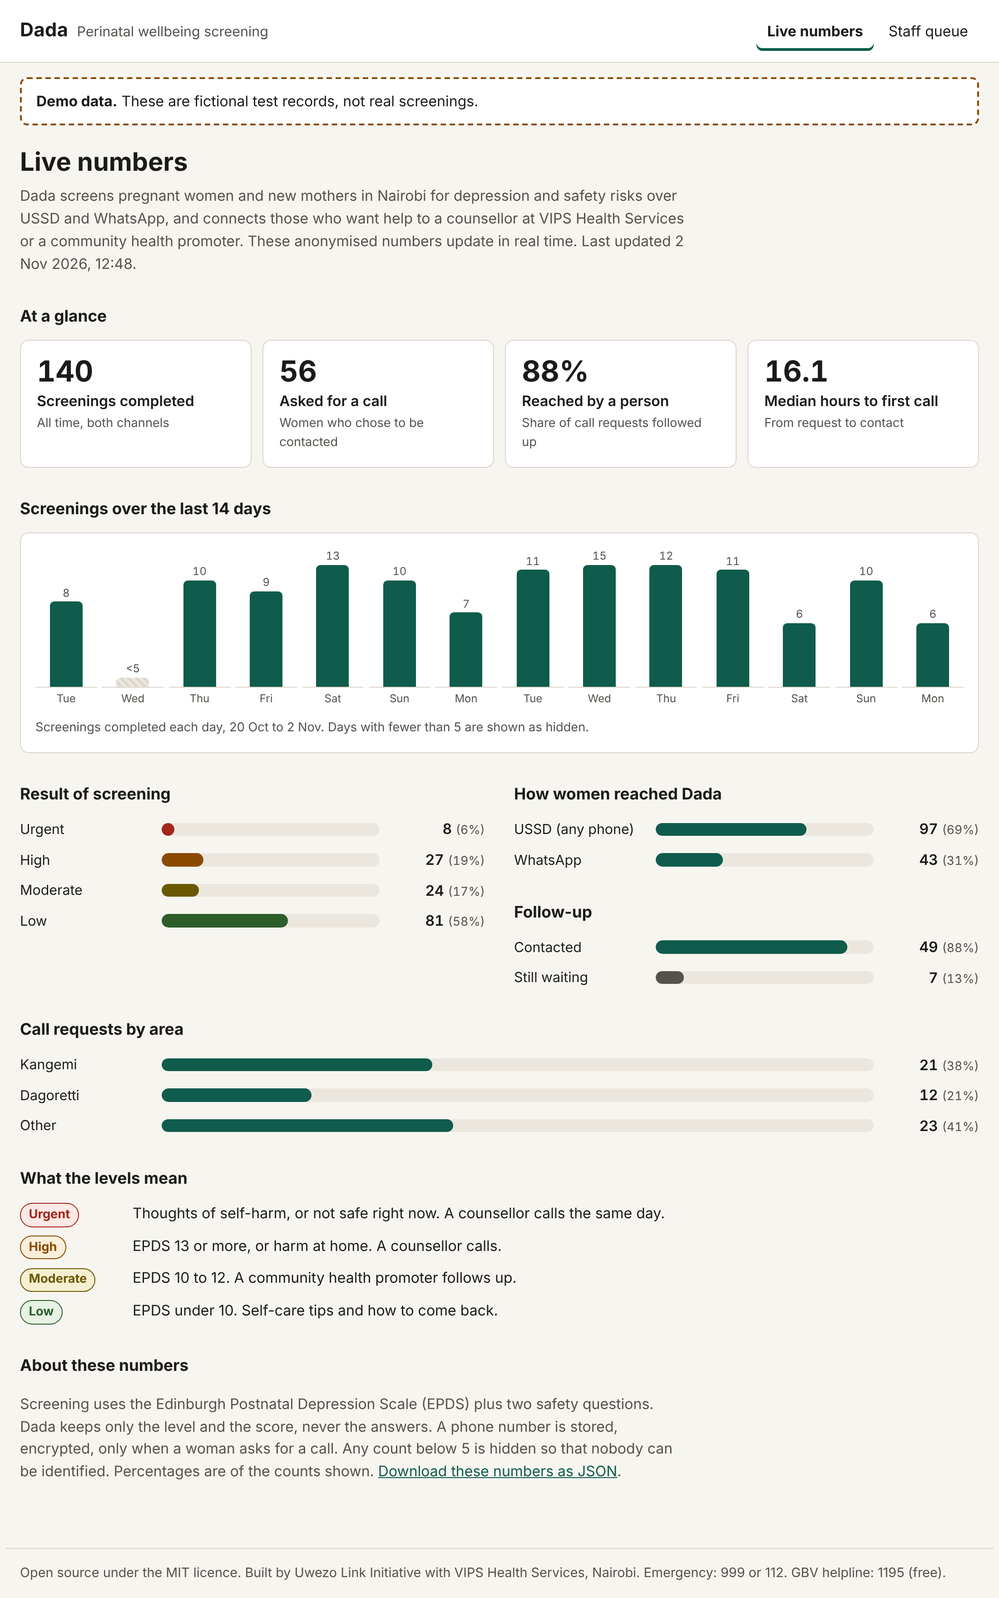
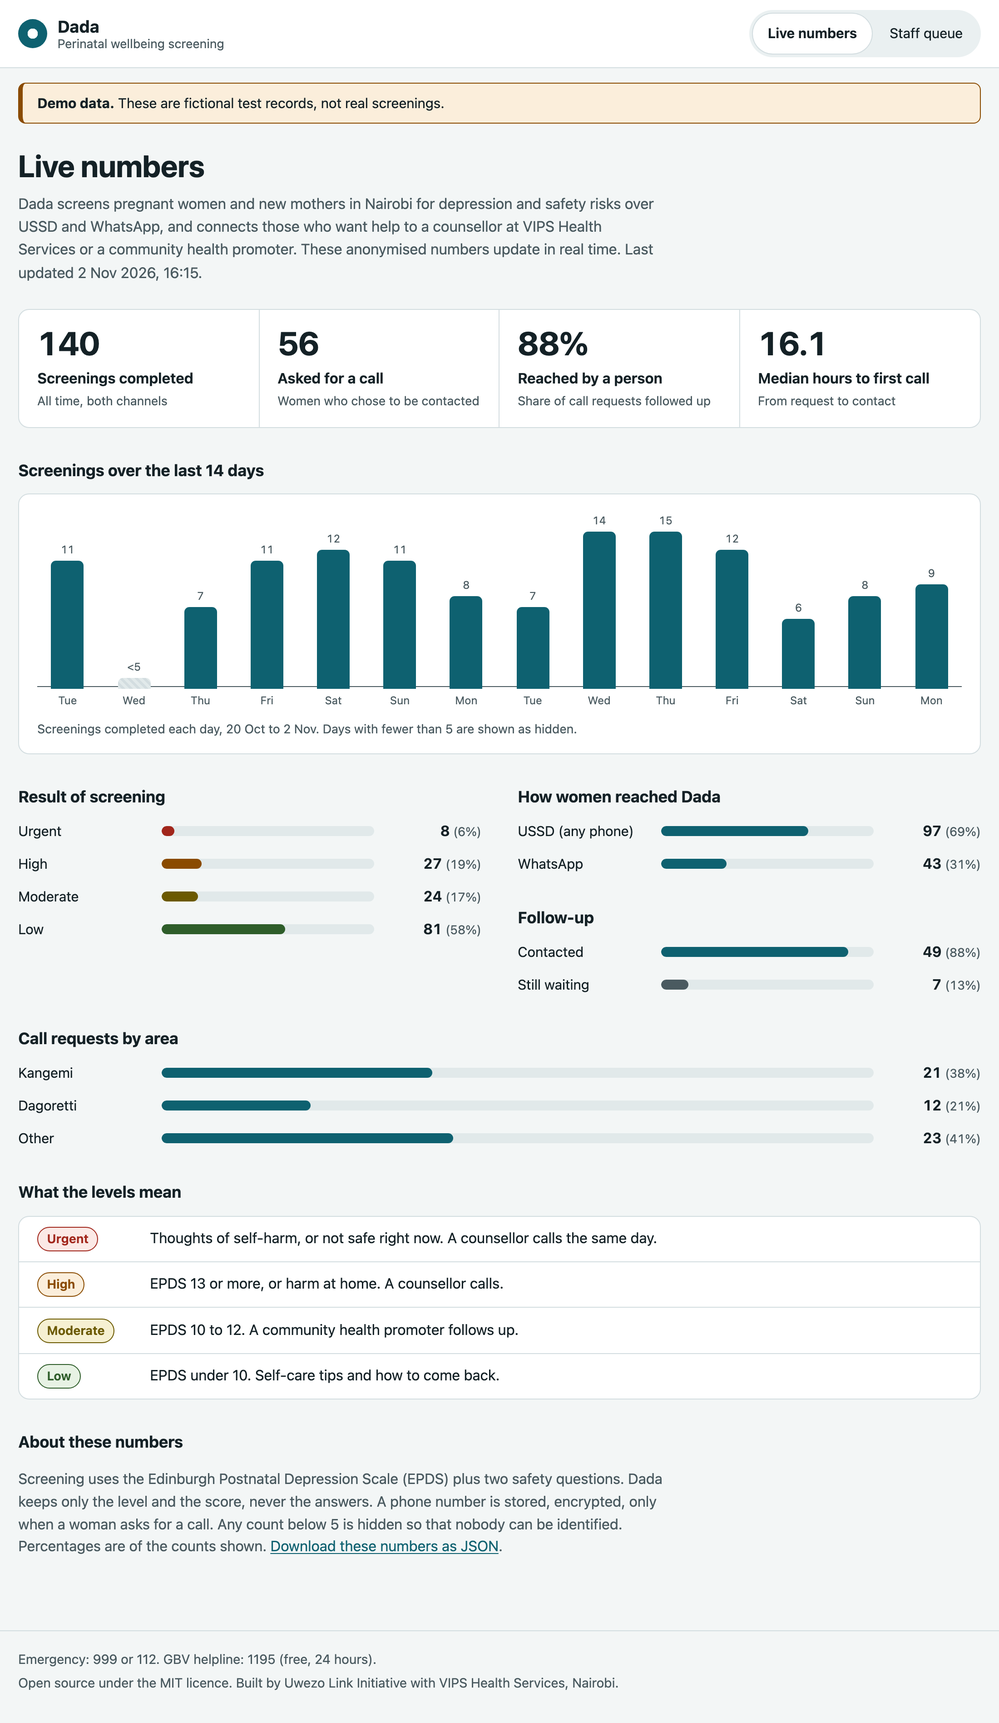
feat: polish staff and live numbers pages
- Calm blue-teal theme in light and dark mode; all text pairs at 5.9:1 or better.
- Headline numbers in one divided panel, urgent first, each with a line saying what it means.
- Clearer header, navigation, demo banner, table header, risk key and footer.
- Fix on phones: the "Waiting" line in a queue card now sits under the date, not in the
  label column.
- Updated docs screenshots with fictional demo data.

Server-rendered HTML and CSS only, no JavaScript or external assets.

diff --git a/src/adapters/http/html.ts b/src/adapters/http/html.ts
@@ -55,140 +55,203 @@ export function page(title: string, body: SafeHtml, options: PageOptions = {}): 
 <style>
 :root {
   color-scheme: light dark;
-  --bg: #f7f5f0; --surface: #ffffff; --text: #1c1b19; --muted: #55524c;
-  --line: #dcd7cc; --track: #ebe7de; --accent: #0f5c4c; --accent-text: #ffffff;
+  --bg: #f3f6f6; --surface: #ffffff; --surface-2: #eaf0f1; --text: #142126; --muted: #4a5a60;
+  --line: #d3dde0; --track: #e1e9ea; --accent: #0e6170; --accent-strong: #0a4b57;
+  --accent-text: #ffffff; --accent-soft: #e1eff1;
   --urgent: #a1261b; --high: #8a4b00; --moderate: #6b5900; --low: #2e5d2a;
   --urgent-bg: #fbe9e6; --high-bg: #fbeedb; --moderate-bg: #f6f0d2; --low-bg: #e7f2e4;
-  --focus: #1a56db;
+  --focus: #1a56db; --radius: .75rem;
 }
 @media (prefers-color-scheme: dark) {
   :root {
-    --bg: #141311; --surface: #1e1d1a; --text: #f2efe8; --muted: #b9b4a9;
-    --line: #3a3833; --track: #2c2a26; --accent: #6fd3bd; --accent-text: #0b1f1a;
+    --bg: #0e1618; --surface: #152124; --surface-2: #1b2a2e; --text: #e8f0f1; --muted: #a7b8bc;
+    --line: #2b3d41; --track: #243438; --accent: #7cd0dc; --accent-strong: #a6e2ea;
+    --accent-text: #06262b; --accent-soft: #17343a;
     --urgent: #ff9c90; --high: #ffc074; --moderate: #f1d36b; --low: #9fd996;
     --urgent-bg: #3a1d19; --high-bg: #3a2a14; --moderate-bg: #343013; --low-bg: #1d3019;
     --focus: #8ab4ff;
   }
 }
 * { box-sizing: border-box; }
+html { -webkit-text-size-adjust: 100%; }
 body {
   margin: 0; background: var(--bg); color: var(--text);
   font: 1rem/1.55 system-ui, -apple-system, "Segoe UI", Roboto, "Noto Sans", sans-serif;
 }
-a { color: var(--accent); }
+a { color: var(--accent); text-underline-offset: .15em; }
+a:hover { color: var(--accent-strong); }
 :focus-visible { outline: 3px solid var(--focus); outline-offset: 2px; }
-.skip { position: absolute; left: -999px; top: 0; padding: .5rem 1rem; background: var(--surface); }
+.skip { position: absolute; left: -999px; top: 0; padding: .5rem 1rem; background: var(--surface); z-index: 1; }
 .skip:focus { left: 1rem; }
 .visually-hidden {
   position: absolute; width: 1px; height: 1px; overflow: hidden;
   clip-path: inset(50%); white-space: nowrap;
 }
+
+/* Header */
 .site { background: var(--surface); border-bottom: 1px solid var(--line); }
-.site-inner, main, footer { max-width: 68rem; margin: 0 auto; padding: 0 1rem; }
-.site-inner { display: flex; flex-wrap: wrap; align-items: center; gap: .25rem 1.5rem; padding-block: .75rem; }
-.brand { display: flex; align-items: baseline; gap: .6rem; margin-right: auto; }
-.brand strong { font-size: 1.3rem; letter-spacing: .01em; }
-.brand span { color: var(--muted); font-size: .95rem; }
-nav ul { display: flex; gap: .25rem; list-style: none; margin: 0; padding: 0; }
+.site-inner, main, footer { max-width: 70rem; margin: 0 auto; padding: 0 1.25rem; }
+.site-inner { display: flex; flex-wrap: wrap; align-items: center; gap: .5rem 1.5rem; padding-block: .7rem; }
+.brand { display: flex; align-items: center; gap: .7rem; margin-right: auto; }
+.mark {
+  width: 2rem; height: 2rem; border-radius: 50%; flex: none;
+  background: radial-gradient(circle at 50% 50%, var(--surface) 0 .35rem, transparent .36rem), var(--accent);
+}
+.brand-text { display: flex; flex-direction: column; line-height: 1.2; }
+.brand strong { font-size: 1.15rem; letter-spacing: .01em; }
+.brand-text span { color: var(--muted); font-size: .85rem; }
+nav ul { display: flex; gap: .25rem; list-style: none; margin: 0; padding: .25rem; background: var(--surface-2); border-radius: 2rem; }
 nav a {
-  display: inline-block; padding: .5rem .75rem; border-radius: .4rem;
-  color: var(--text); text-decoration: none; min-height: 2.75rem; line-height: 1.75rem;
+  display: inline-block; padding: .45rem 1rem; border-radius: 2rem;
+  color: var(--text); text-decoration: none; min-height: 2.75rem; line-height: 1.85rem; font-size: .95rem;
 }
-nav a:hover { background: var(--track); }
-nav a[aria-current="page"] { font-weight: 650; box-shadow: inset 0 -3px 0 var(--accent); }
+nav a:hover { color: var(--text); background: var(--track); }
+nav a[aria-current="page"] { font-weight: 650; background: var(--surface); box-shadow: 0 0 0 1px var(--line); }
+
+/* Page heading */
 main { padding-bottom: 1rem; }
-h1 { font-size: 1.75rem; line-height: 1.2; margin: 1.5rem 0 .5rem; }
-h2 { font-size: 1.1rem; margin: 2rem 0 .75rem; }
-p.lead { color: var(--muted); margin-top: 0; max-width: 46rem; }
-.grid { display: grid; gap: .75rem; grid-template-columns: repeat(auto-fit, minmax(11rem, 1fr)); }
-.card {
-  background: var(--surface); border: 1px solid var(--line); border-radius: .6rem;
-  padding: 1rem 1.1rem; display: flex; flex-direction: column; gap: .1rem;
+.page-head { padding: 1.75rem 0 .25rem; }
+h1 { font-size: clamp(1.6rem, 1.2rem + 1.6vw, 2.1rem); line-height: 1.15; letter-spacing: -.01em; margin: 0 0 .5rem; }
+h2 { font-size: 1.1rem; line-height: 1.3; margin: 2.25rem 0 .85rem; }
+h2 .h-note { display: block; color: var(--muted); font-size: .9rem; font-weight: 400; margin-top: .15rem; }
+p.lead { color: var(--muted); margin: 0; max-width: 44rem; font-size: 1.02rem; }
+
+.demo {
+  margin: 1rem 0 0; padding: .6rem 1rem; border-radius: .5rem;
+  background: var(--high-bg); color: var(--text); border: 1px solid var(--high);
+  border-left-width: 5px; font-size: .95rem;
 }
-.card .n { font-size: 2rem; font-weight: 650; line-height: 1.15; font-variant-numeric: tabular-nums; }
-.card .n-small { font-size: 1.4rem; padding-top: .35rem; }
-.card .n-hidden { font-size: 1.15rem; font-weight: 600; color: var(--muted); padding: .55rem 0 .3rem; }
-.card .l { font-weight: 600; }
-.card .sub { color: var(--muted); font-size: .85rem; }
-.card-alert { border-color: var(--urgent); box-shadow: inset 4px 0 0 var(--urgent); }
-.two-col { display: grid; gap: 0 2rem; grid-template-columns: repeat(auto-fit, minmax(19rem, 1fr)); }
-.bars { list-style: none; margin: 0; padding: 0; display: grid; gap: .55rem; }
-.bars li { display: grid; grid-template-columns: 9rem 1fr 6.5rem; align-items: center; gap: .75rem; }
+
+/* Headline numbers: one panel, divided, most important first */
+.stat-strip {
+  display: grid; grid-template-columns: repeat(auto-fit, minmax(10.5rem, 1fr));
+  background: var(--surface); border: 1px solid var(--line); border-radius: var(--radius);
+  margin-top: 1.5rem; overflow: hidden;
+}
+.stat {
+  padding: 1.1rem 1.25rem 1.2rem; display: flex; flex-direction: column; gap: .15rem;
+  border-left: 1px solid var(--line); margin-left: -1px; border-top: 1px solid var(--line); margin-top: -1px;
+}
+.stat .n { font-size: 2.25rem; font-weight: 700; line-height: 1.1; letter-spacing: -.02em; font-variant-numeric: tabular-nums; }
+.stat .n-small { font-size: 1.6rem; padding-top: .45rem; }
+.stat .n-hidden { font-size: 1.15rem; font-weight: 600; color: var(--muted); padding: .7rem 0 .45rem; letter-spacing: 0; }
+.stat .l { font-weight: 650; margin-top: .25rem; }
+.stat .sub { color: var(--muted); font-size: .85rem; line-height: 1.4; }
+.stat-alert { background: var(--urgent-bg); box-shadow: inset 0 4px 0 var(--urgent); }
+.stat-alert .n { color: var(--urgent); }
+.stat-lead { background: var(--accent-soft); }
+
+/* Bars */
+.two-col { display: grid; gap: 0 2.5rem; grid-template-columns: repeat(auto-fit, minmax(19rem, 1fr)); }
+.panel { background: var(--surface); border: 1px solid var(--line); border-radius: var(--radius); padding: 1rem 1.25rem; }
+.two-col > section > h2:first-child { margin-top: 2.25rem; }
+.bars { list-style: none; margin: 0; padding: 0; display: grid; gap: .7rem; }
+.bars li { display: grid; grid-template-columns: 9rem 1fr 6.5rem; align-items: center; gap: .85rem; }
 .bar-label { font-size: .95rem; }
-.bar-value { font-variant-numeric: tabular-nums; text-align: right; font-weight: 600; }
-.bar-value small { color: var(--muted); font-weight: 400; }
-.track { height: .9rem; background: var(--track); border-radius: 1rem; overflow: hidden; }
-.fill { display: block; height: 100%; border-radius: 1rem; }
+.bar-value { font-variant-numeric: tabular-nums; text-align: right; font-weight: 650; }
+.bar-value small { color: var(--muted); font-weight: 400; font-size: .85rem; }
+.track { height: .7rem; background: var(--track); border-radius: 1rem; overflow: hidden; }
+.fill { display: block; height: 100%; border-radius: 1rem; min-width: .35rem; }
+.fill[style="width:0%"] { min-width: 0; }
 .fill-urgent { background: var(--urgent); } .fill-high { background: var(--high); }
 .fill-moderate { background: var(--moderate); } .fill-low { background: var(--low); }
 .fill-accent { background: var(--accent); } .fill-muted { background: var(--muted); }
-.trend { margin: 0; background: var(--surface); border: 1px solid var(--line); border-radius: .6rem; padding: 1rem; }
-.columns { display: flex; align-items: stretch; gap: .35rem; height: 11rem; }
+
+/* Daily chart */
+.trend { margin: 0; background: var(--surface); border: 1px solid var(--line); border-radius: var(--radius); padding: 1.25rem 1.25rem 1rem; }
+.columns {
+  display: flex; align-items: stretch; gap: .4rem; height: 12rem;
+  border-bottom: 1px solid var(--muted);
+}
 .col { flex: 1; display: flex; flex-direction: column; justify-content: flex-end; align-items: center; min-width: 0; }
-.col-bar { width: 100%; max-width: 2.25rem; background: var(--accent); border-radius: .3rem .3rem 0 0; }
+.col-bar { width: 100%; max-width: 2.25rem; background: var(--accent); border-radius: .35rem .35rem 0 0; }
 .col-hidden { background: repeating-linear-gradient(45deg, var(--track), var(--track) 3px, var(--line) 3px, var(--line) 6px); }
-.col-value { font-size: .75rem; color: var(--muted); font-variant-numeric: tabular-nums; }
-.col-day { font-size: .75rem; color: var(--muted); border-top: 1px solid var(--line); width: 100%; text-align: center; padding-top: .2rem; }
-.trend figcaption { color: var(--muted); font-size: .85rem; margin-top: .75rem; }
+.col-value { font-size: .75rem; color: var(--muted); font-variant-numeric: tabular-nums; padding-bottom: .15rem; }
+.col-day { font-size: .75rem; color: var(--muted); width: 100%; text-align: center; padding-top: .3rem; margin-bottom: -1.6rem; }
+.trend figcaption { color: var(--muted); font-size: .85rem; margin-top: 2.2rem; }
+
+/* Risk level badges: text plus colour, never colour alone */
 .badge {
-  display: inline-block; padding: .1rem .55rem; border-radius: 1rem; font-weight: 650;
+  display: inline-block; padding: .12rem .6rem; border-radius: 1rem; font-weight: 650;
   font-size: .85rem; border: 1px solid currentColor; white-space: nowrap;
 }
 .badge-urgent { color: var(--urgent); background: var(--urgent-bg); }
 .badge-high { color: var(--high); background: var(--high-bg); }
 .badge-moderate { color: var(--moderate); background: var(--moderate-bg); }
 .badge-low { color: var(--low); background: var(--low-bg); }
-.levels { display: grid; gap: .5rem; margin: 0; }
-.levels div { display: grid; grid-template-columns: 7rem 1fr; gap: .75rem; align-items: baseline; }
+.levels { display: grid; gap: 0; margin: 0; background: var(--surface); border: 1px solid var(--line); border-radius: var(--radius); }
+.levels div { display: grid; grid-template-columns: 7rem 1fr; gap: .75rem; align-items: baseline; padding: .7rem 1.25rem; }
+.levels div + div { border-top: 1px solid var(--line); }
 .levels dd { margin: 0; }
-.table-wrap { overflow-x: auto; border: 1px solid var(--line); border-radius: .6rem; background: var(--surface); }
+
+/* Referral queue */
+.table-wrap { overflow-x: auto; border: 1px solid var(--line); border-radius: var(--radius); background: var(--surface); }
 table { border-collapse: collapse; width: 100%; }
 .table-wrap table { min-width: 48rem; }
-caption { text-align: left; padding: .75rem 1rem; color: var(--muted); }
-th, td { text-align: left; padding: .65rem 1rem; border-top: 1px solid var(--line); vertical-align: top; }
-th { font-weight: 600; font-size: .9rem; }
+caption { text-align: left; padding: .8rem 1.25rem; color: var(--muted); font-size: .92rem; }
+th, td { text-align: left; padding: .75rem 1rem; border-top: 1px solid var(--line); vertical-align: top; }
+th:first-child, td:first-child { padding-left: 1.25rem; }
+th { font-weight: 650; font-size: .85rem; color: var(--muted); background: var(--surface-2); }
+.queue tbody tr:hover { background: var(--surface-2); }
 td.num { font-variant-numeric: tabular-nums; }
+.queue td.score { font-weight: 650; }
 tr.late td:first-child { box-shadow: inset 4px 0 0 var(--urgent); }
 .wait { display: block; color: var(--muted); font-size: .85rem; }
 tr.late .wait strong { color: var(--urgent); }
-table.compact th, table.compact td { padding: .5rem .5rem .5rem 0; }
-details { background: var(--surface); border: 1px solid var(--line); border-radius: .6rem; padding: .75rem 1rem; margin-bottom: 1rem; }
+table.compact th, table.compact td { padding: .55rem .5rem .55rem 0; background: none; }
+details { background: var(--surface); border: 1px solid var(--line); border-radius: var(--radius); padding: .9rem 1.25rem; margin-bottom: 1rem; }
 summary { font-weight: 650; cursor: pointer; min-height: 1.75rem; }
 details ol { padding-left: 1.25rem; margin-bottom: 0; }
+details li + li { margin-top: .35rem; }
 .hint { color: var(--muted); font-size: .9rem; margin: .5rem 0 0; }
 .note { color: var(--muted); max-width: 46rem; }
+.help {
+  margin: 1.5rem 0 0; padding: .9rem 1.25rem; border-radius: var(--radius);
+  background: var(--accent-soft); color: var(--text); max-width: none;
+}
 button {
-  font: inherit; cursor: pointer; border: 0; border-radius: .4rem;
-  padding: .55rem .9rem; min-height: 2.75rem; background: var(--accent); color: var(--accent-text);
+  font: inherit; font-weight: 600; cursor: pointer; border: 0; border-radius: .5rem;
+  padding: .55rem 1rem; min-height: 2.75rem; background: var(--accent); color: var(--accent-text);
   white-space: nowrap;
 }
-.demo {
-  margin: 1rem 0 0; padding: .75rem 1rem; border-radius: .5rem;
-  background: var(--surface); border: 2px dashed var(--high); color: var(--text);
-}
-.empty { padding: 1.5rem 1rem; color: var(--muted); background: var(--surface); border: 1px solid var(--line); border-radius: .6rem; }
-footer { color: var(--muted); font-size: .9rem; border-top: 1px solid var(--line); margin-top: 2.5rem; padding-block: 1rem; }
+button:hover { background: var(--accent-strong); }
+.empty { padding: 1.5rem 1.25rem; color: var(--muted); background: var(--surface); border: 1px solid var(--line); border-radius: var(--radius); }
+footer { color: var(--muted); font-size: .9rem; border-top: 1px solid var(--line); margin-top: 3rem; padding-block: 1.25rem 2rem; }
+footer p { margin: 0; }
+footer p + p { margin-top: .25rem; }
+
 /* On phones each referral becomes a card, so nobody has to scroll sideways to reach the button. */
 @media (max-width: 44rem) {
   .table-wrap { overflow: visible; }
   .table-wrap table.queue { min-width: 0; }
   .queue thead { position: absolute; width: 1px; height: 1px; overflow: hidden; clip-path: inset(50%); }
   .queue tbody, .queue tr, .queue td { display: block; }
-  .queue tr { border-top: 1px solid var(--line); padding: .75rem 1rem; }
-  .queue td { border: 0; padding: .2rem 0; display: grid; grid-template-columns: 6.5rem 1fr; gap: .5rem; }
+  .queue tr { border-top: 1px solid var(--line); padding: .9rem 1.25rem; }
+  .queue tbody tr:hover { background: none; }
+  .queue td, .queue td:first-child { border: 0; padding: .2rem 0; display: grid; grid-template-columns: 6.5rem 1fr; gap: .5rem; }
   .queue td::before { content: attr(data-label); color: var(--muted); font-size: .85rem; }
-  .queue td.action { display: block; padding-top: .6rem; }
+  .queue td .wait { grid-column: 2; }
+  .queue td.score::before { font-weight: 400; }
+  .queue td.action { display: block; padding-top: .7rem; }
   .queue td.action::before { content: none; }
   .queue td.action button { width: 100%; }
   tr.late td:first-child { box-shadow: none; }
   tr.late { box-shadow: inset 4px 0 0 var(--urgent); }
+  .stat-strip { grid-template-columns: 1fr 1fr; }
+  .stat-strip > .stat:first-child { grid-column: 1 / -1; }
 }
 @media (max-width: 34rem) {
-  .bars li { grid-template-columns: 1fr auto; }
+  .site-inner, main, footer { padding-inline: 1rem; }
+  .brand-text span { display: none; }
+  .stat { padding: .9rem 1rem 1rem; }
+  .stat .n { font-size: 1.9rem; }
+  .bars li { grid-template-columns: 1fr auto; gap: .35rem .75rem; }
   .bars .track { grid-column: 1 / -1; grid-row: 2; }
+  .columns { gap: .2rem; }
   .col-value { display: none; }
   .col:nth-child(even) .col-day { visibility: hidden; }
-  .levels div { grid-template-columns: 1fr; gap: .25rem; }
+  .levels div { grid-template-columns: 1fr; gap: .25rem; padding-inline: 1rem; }
+  .trend { padding-inline: .75rem; }
 }
 @media (prefers-reduced-motion: reduce) { * { transition: none !important; } }
 </style>
@@ -196,11 +259,11 @@ footer { color: var(--muted); font-size: .9rem; border-top: 1px solid var(--line
 <body>
 <a class="skip" href="#main">Skip to content</a>
 <header class="site"><div class="site-inner">
-<div class="brand"><strong>Dada</strong><span>Perinatal wellbeing screening</span></div>
+<div class="brand"><span class="mark" aria-hidden="true"></span><span class="brand-text"><strong>Dada</strong><span>Perinatal wellbeing screening</span></span></div>
 <nav aria-label="Main"><ul><li>${link("/stats", "Live numbers", "stats")}</li><li>${link("/staff", "Staff queue", "staff")}</li></ul></nav>
 </div></header>
 <main id="main">${options.demo === true ? '<p class="demo"><strong>Demo data.</strong> These are fictional test records, not real screenings.</p>' : ""}${body.html}</main>
-<footer>Open source under the MIT licence. Built by Uwezo Link Initiative with VIPS Health Services, Nairobi. Emergency: 999 or 112. GBV helpline: 1195 (free).</footer>
+<footer><p>Emergency: 999 or 112. GBV helpline: 1195 (free, 24 hours).</p><p>Open source under the MIT licence. Built by Uwezo Link Initiative with VIPS Health Services, Nairobi.</p></footer>
 </body>
 </html>`;
 }

diff --git a/src/adapters/http/pages.ts b/src/adapters/http/pages.ts
@@ -83,7 +83,7 @@ export function staffPage(
       <td data-label="Reasons">
         ${r.flags.map((flag) => FLAG_LABELS[flag] ?? flag).join(", ") || "None"}
       </td>
-      <td class="num" data-label="EPDS score">${r.epdsScore ?? "Not completed"}</td>
+      <td class="num score" data-label="EPDS score">${r.epdsScore ?? "Not completed"}</td>
       <td data-label="Area">${r.ward ?? "Not given"}</td>
       <td class="num" data-label="Phone"><a href="tel:${r.phone}">${r.phone}</a></td>
       <td data-label="Channel">${r.channel === "ussd" ? "USSD" : "WhatsApp"}</td>
@@ -101,20 +101,27 @@ export function staffPage(
     </tr>`;
   });
 
-  const summary = html`<div class="grid">
-    <div class="card ${count("urgent") > 0 ? "card-alert" : ""}">
+  const summary = html`<div class="stat-strip">
+    <div class="stat ${count("urgent") > 0 ? "stat-alert" : ""}">
       <span class="n">${count("urgent")}</span><span class="l">Urgent, call today</span>
+      <span class="sub">First call within ${RESPONSE_TARGET_HOURS.urgent} hours</span>
     </div>
-    <div class="card"><span class="n">${count("high")}</span><span class="l">High</span></div>
-    <div class="card">
-      <span class="n">${referrals.length}</span><span class="l">Waiting in total</span>
+    <div class="stat">
+      <span class="n">${count("high")}</span><span class="l">High</span>
+      <span class="sub">First call within ${RESPONSE_TARGET_HOURS.high} hours</span>
     </div>
-    <div class="card ${overdue.length > 0 ? "card-alert" : ""}">
+    <div class="stat ${overdue.length > 0 ? "stat-alert" : ""}">
       <span class="n">${overdue.length}</span><span class="l">Past response target</span>
+      <span class="sub">Waited longer than the target for their level</span>
     </div>
-    <div class="card">
+    <div class="stat">
+      <span class="n">${referrals.length}</span><span class="l">Waiting in total</span>
+      <span class="sub">Open call requests at every level</span>
+    </div>
+    <div class="stat">
       <span class="n n-small">${referrals.length === 0 ? "None" : formatWait(oldest)}</span>
       <span class="l">Longest wait</span>
+      <span class="sub">Since the oldest open request came in</span>
     </div>
   </div>`;
 
@@ -148,12 +155,14 @@ export function staffPage(
 
   return page(
     "Referral queue",
-    html`<h1>Referral queue</h1>
-      <p class="lead">
-        Women who finished a screening and asked for a call back. Call urgent cases first. Do not
-        write down what the person tells you in this system; follow the clinic's safeguarding
-        protocol.
-      </p>
+    html`<div class="page-head">
+        <h1>Referral queue</h1>
+        <p class="lead">
+          Women who finished a screening and asked for a call back. Call urgent cases first. Do not
+          write down what the person tells you in this system; follow the clinic's safeguarding
+          protocol.
+        </p>
+      </div>
       ${summary}
       <h2>Waiting for a call</h2>
       ${table}
@@ -201,7 +210,7 @@ export function staffPage(
           </table>
         </details>
       </div>
-      <p class="note">
+      <p class="note help">
         Emergency: 999 or 112. National GBV helpline: 1195, free and open 24 hours. Phone numbers
         are deleted ${retentionDays} days after contact.
       </p>`,
@@ -215,7 +224,7 @@ export function statsPage(stats: PublicStats, demo: boolean): string {
   const { screenings, referrals } = stats;
 
   const kpi = (label: string, n: number | string | null, note: string, whenHidden = hidden) =>
-    html`<div class="card">
+    html`<div class="stat">
       <span class="${n === null ? "n n-hidden" : "n"}">${n ?? whenHidden}</span>
       <span class="l">${label}</span>
       <span class="sub">${note}</span>
@@ -293,16 +302,19 @@ export function statsPage(stats: PublicStats, demo: boolean): string {
 
   return page(
     "Live numbers",
-    html`<h1>Live numbers</h1>
-      <p class="lead">
-        Dada screens pregnant women and new mothers in Nairobi for depression and safety risks over
-        USSD and WhatsApp, and connects those who want help to a counsellor at VIPS Health Services
-        or a community health promoter. These anonymised numbers update in real time. Last updated
-        <time datetime="${stats.generatedAt}">${TIME.format(new Date(stats.generatedAt))}</time>.
-      </p>
+    html`<div class="page-head">
+        <h1>Live numbers</h1>
+        <p class="lead">
+          Dada screens pregnant women and new mothers in Nairobi for depression and safety risks
+          over USSD and WhatsApp, and connects those who want help to a counsellor at VIPS Health
+          Services or a community health promoter. These anonymised numbers update in real time.
+          Last updated
+          <time datetime="${stats.generatedAt}">${TIME.format(new Date(stats.generatedAt))}</time>.
+        </p>
+      </div>
 
-      <h2>At a glance</h2>
-      <div class="grid">
+      <h2 class="visually-hidden">At a glance</h2>
+      <div class="stat-strip">
         ${kpi("Screenings completed", screenings.total, "All time, both channels")}
         ${kpi("Asked for a call", referrals.total, "Women who chose to be contacted")}
         ${kpi(
